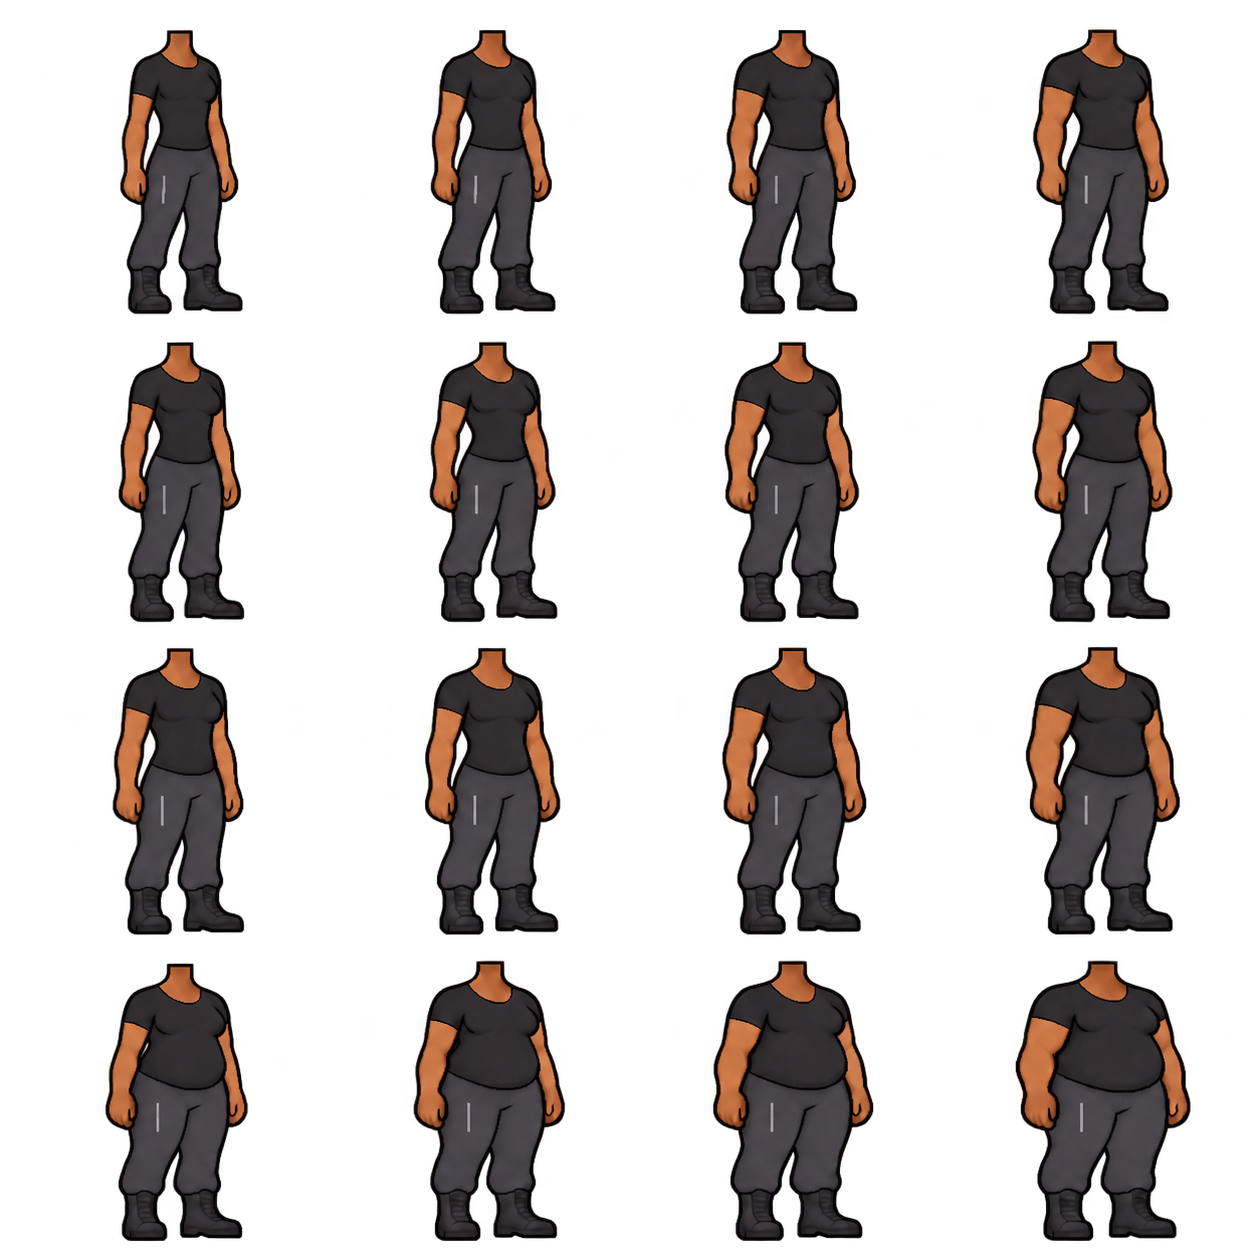
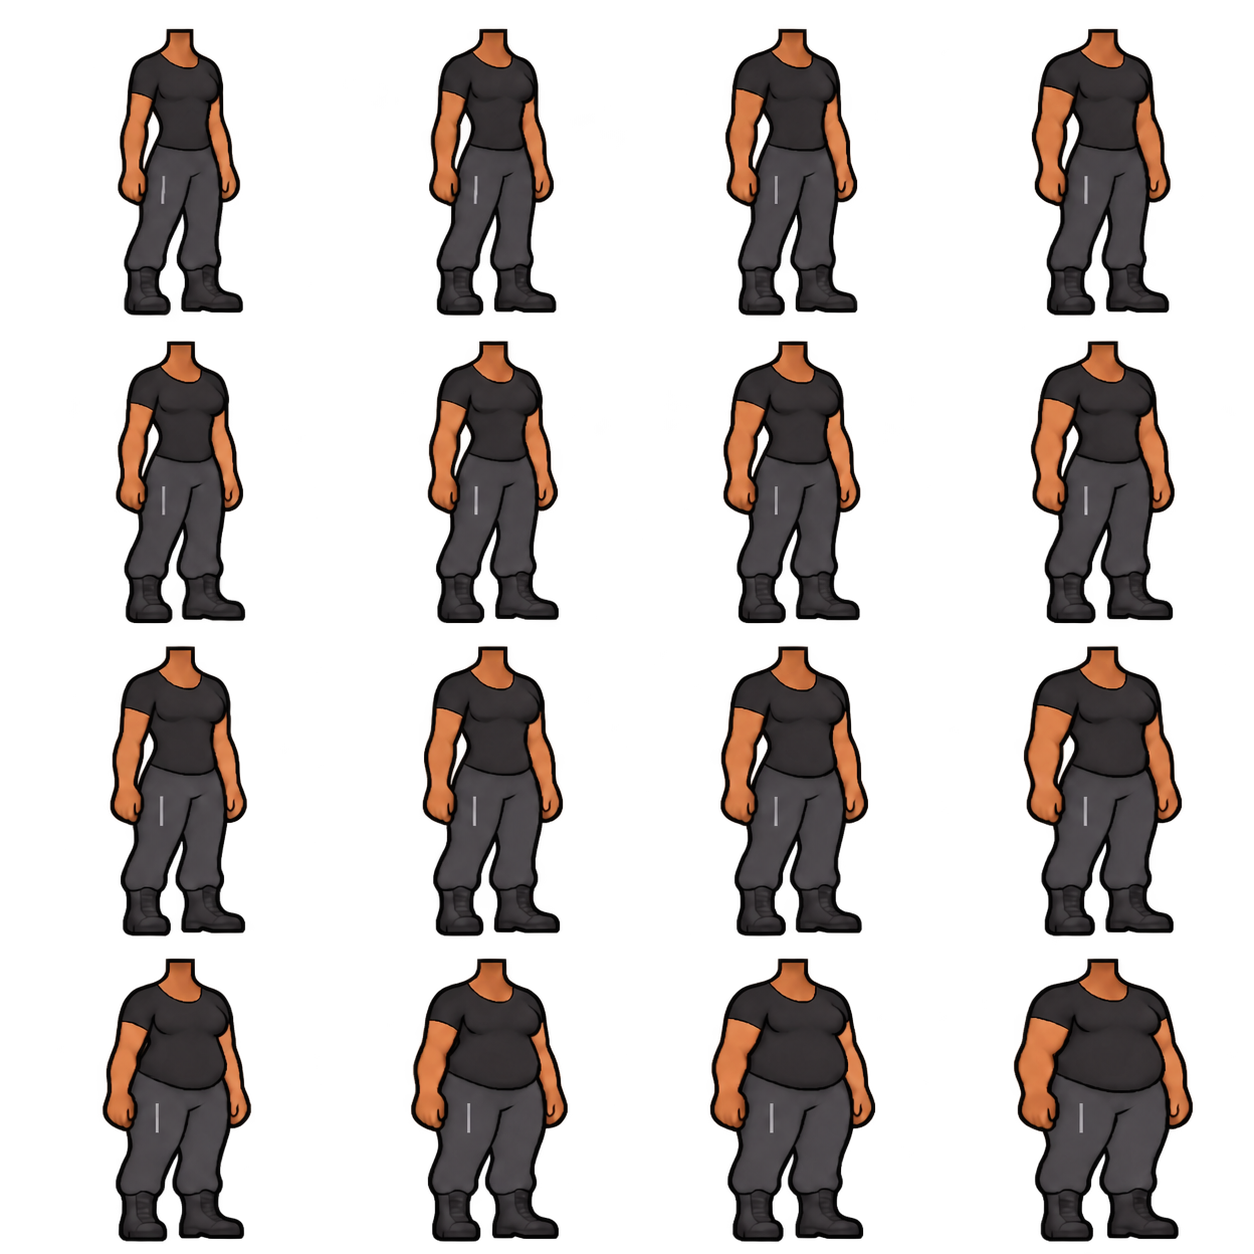
Add starting trait selection and refundable skill XP allocation

diff --git a/src/character-creation-build.js b/src/character-creation-build.js
@@ -1,0 +1,77 @@
+/* Starting traits and refundable skill allocation; no simulation effects yet. */
+setup.characterCreationBuild = (() => {
+    function mount(root, character) {
+        const rules = setup.characterRules;
+        function section(title, note) {
+            const fieldset = document.createElement('fieldset');
+            fieldset.className = 'customization-group starting-group';
+            const legend = document.createElement('legend');legend.textContent = title;
+            const description = document.createElement('p');description.className = 'creation-help';description.textContent = note;
+            fieldset.append(legend, description);root.append(fieldset);
+            return fieldset;
+        }
+        const traits = section('Starting traits', 'Choose any starting traits. Stat and skill effects are awaiting definitions.');
+        const traitGrid = document.createElement('div');traitGrid.className = 'trait-grid';
+        for (const name of rules.traits) {
+            const label = document.createElement('label');label.className = 'trait-choice';
+            const input = document.createElement('input');input.type = 'checkbox';input.checked = character.traits.includes(name);
+            input.addEventListener('change', () => {
+                character.traits = rules.traits.filter(trait => trait === name ? input.checked : character.traits.includes(trait));
+            });
+            const text = document.createElement('span');text.textContent = name;
+            label.append(input, text);traitGrid.append(label);
+        }
+        traits.append(traitGrid);
+        const skills = section('Starting skills', 'Skills start untrained at level 0. Spend 50 XP to reach level 1, then another 100 for level 2, then 200 for level 3. Costs keep doubling, up to level 10.');
+        const budget = document.createElement('div');budget.className = 'skill-budget';
+        const remaining = document.createElement('span');remaining.id = 'skill-budget';
+        const reset = document.createElement('button');reset.type = 'button';reset.textContent = 'Reset skill XP';
+        budget.append(remaining, reset);skills.append(budget);
+        const help = document.createElement('p');help.className = 'creation-help';help.textContent = 'Enter total XP per skill, or use − / + to move 10 XP. Removing XP refunds your pool.';skills.append(help);
+        const feedback = document.createElement('p');feedback.className = 'allocation-status';feedback.setAttribute('role', 'status');feedback.setAttribute('aria-live', 'polite');skills.append(feedback);
+        const rows = [];
+        for (const name of rules.skills) {
+            const row = document.createElement('div');row.className = 'skill-row';
+            const heading = document.createElement('div');heading.className = 'skill-heading';
+            const label = document.createElement('label');label.textContent = name;label.htmlFor = `skill-${name.toLowerCase()}`;
+            const level = document.createElement('span');level.className = 'skill-level';heading.append(label, level);
+            const controls = document.createElement('div');controls.className = 'skill-allocation';
+            const minus = document.createElement('button');minus.type = 'button';minus.textContent = '−';minus.setAttribute('aria-label', `Refund 10 XP from ${name}`);
+            const input = document.createElement('input');input.type = 'number';input.min = '0';input.step = '1';input.id = label.htmlFor;input.setAttribute('aria-label', `XP allocated to ${name}`);
+            const plus = document.createElement('button');plus.type = 'button';plus.textContent = '+';plus.setAttribute('aria-label', `Add 10 XP to ${name}`);
+            controls.append(minus, input, plus);
+            const progress = document.createElement('progress');progress.setAttribute('aria-label', `${name} progress to next level`);
+            const detail = document.createElement('span');detail.className = 'skill-progress-label';
+            row.append(heading, controls, progress, detail);skills.append(row);
+            function assign(xp) {
+                if (!rules.allocate(character, name, xp)) {
+                    feedback.textContent = `Enter a whole number from 0 to ${character.skills[name] + rules.remaining(character)} XP for ${name}.`;
+                } else feedback.textContent = '';
+                refresh();
+            }
+            minus.addEventListener('click', () => assign(Math.max(0, character.skills[name] - 10)));
+            plus.addEventListener('click', () => assign(character.skills[name] + Math.min(10, rules.remaining(character))));
+            input.addEventListener('change', () => assign(input.value === '' ? NaN : Number(input.value)));
+            rows.push({name, input, minus, plus, level, progress, detail});
+        }
+        function refresh() {
+            const available = rules.remaining(character);
+            remaining.textContent = `${available} / ${rules.budget} XP remaining`;
+            reset.disabled = available === rules.budget;
+            for (const row of rows) {
+                const xp = character.skills[row.name], status = rules.progress(xp);
+                row.input.value = xp;row.input.max = xp + available;
+                row.minus.disabled = xp === 0;row.plus.disabled = available === 0;
+                row.level.textContent = `Level ${status.level} / ${rules.maxLevel}`;
+                row.progress.max = status.nextCost || 1;row.progress.value = status.nextCost ? status.xp : 1;
+                row.detail.textContent = status.nextCost ? `${status.xp} / ${status.nextCost} XP toward level ${status.level + 1}` : 'Maximum level';
+            }
+        }
+        reset.addEventListener('click', () => {
+            for (const name of rules.skills) character.skills[name] = 0;
+            feedback.textContent = 'All skill XP refunded.';refresh();
+        });
+        refresh();
+    }
+    return {mount};
+})();

diff --git a/src/interface.css b/src/interface.css
@@ -76,3 +76,25 @@ body[data-tags~="creation"] #passages{max-width:960px}
 /* Anchor the editor itself so revealing female-only controls cannot shift the preview. */
 body[data-tags~="creation"] #story{align-items:start}
 .character-field[hidden]{display:none}
+/* Starting build: keep trait choices and XP controls usable on narrow screens. */
+.creation-help{color:var(--muted);font-size:.75rem;line-height:1.6;margin:0 0 16px}
+.trait-grid{display:grid;grid-template-columns:minmax(0,1fr) minmax(0,1fr);gap:8px}
+.trait-choice{display:flex;align-items:center;gap:9px;padding:8px;background:#182c2d;border:1px solid var(--line);font-size:.8rem;cursor:pointer;overflow-wrap:anywhere}
+.trait-choice:has(input:checked){border-color:#729b88;background:#25433b}
+.trait-choice input{flex:none;margin:0;accent-color:var(--accent);width:16px;height:16px}
+.skill-budget{display:flex;flex-wrap:wrap;align-items:center;justify-content:space-between;gap:10px;margin-bottom:14px}
+#skill-budget{font-size:.85rem;color:var(--accent);font-variant-numeric:tabular-nums}
+.skill-budget button{font-size:.7rem;padding:7px 10px}
+.skill-row{display:grid;grid-template-columns:minmax(0,1fr) auto;gap:6px 14px;padding:13px 0;border-bottom:1px solid var(--line)}
+.skill-heading{display:flex;flex-direction:column;justify-content:center;min-width:0}
+.skill-heading label{font-size:.85rem;color:var(--text);overflow-wrap:anywhere}
+.skill-level,.skill-progress-label{font-size:.65rem;color:var(--muted)}
+.skill-allocation{display:flex;align-items:center;gap:5px}
+.skill-allocation button{width:30px;height:34px;padding:0;font-size:1rem}
+.skill-allocation input{width:65px;min-width:0;height:34px;padding:4px;background:#16292c;color:var(--text);border:1px solid #3c5952;font-size:.85rem;text-align:center;font-variant-numeric:tabular-nums}
+.skill-row progress{grid-column:1/-1;width:100%;height:5px;accent-color:var(--accent)}
+.skill-progress-label{grid-column:1/-1}
+.allocation-status{font-size:.75rem;color:var(--accent);line-height:1.6}
+.allocation-status:empty{display:none}
+button:disabled{opacity:.4;cursor:default}
+@media(max-width:360px){.skill-row{gap:6px 8px}.skill-allocation input{width:54px}.skill-allocation button{width:27px}.trait-grid{grid-template-columns:minmax(0,1fr)}}

diff --git a/src/character-rules.js b/src/character-rules.js
@@ -1,0 +1,30 @@
+/* Creation rules stay independent of artwork and DOM. XP is cumulative. */
+setup.characterRules = (() => {
+    const traits = ['Nerd', 'Athlete', 'Delinquent', 'Promiscuous', 'Exhibitionist',
+        'Deviant', 'Beautiful', 'Lustful', 'Masochist', 'Sadist', 'Polyamorous',
+        'Nudist', 'Insane', 'Ugly', 'Innocent'];
+    const skills = ['Lockpicking', 'Stealth', 'Dancing', 'Swimming', 'Athleticism',
+        'Tending', 'Housekeeping', 'Endurance', 'Agility', 'Combat', 'Ranged',
+        'Medical', 'Crafting', 'Charm', 'Deception', 'Perception', 'Intimidation', 'Focus'];
+    const budget = 250;
+    const maxLevel = 10;
+    const levelCost = level => 50 * 2 ** (level - 1);
+    const maxXp = 50 * (2 ** maxLevel - 1);
+    function progress(xp) {
+        let level = 0, remainder = Math.max(0, Math.min(maxXp, Math.floor(xp) || 0));
+        while (level < maxLevel && remainder >= levelCost(level + 1)) {
+            remainder -= levelCost(level + 1);
+            level++;
+        }
+        return {level, xp: remainder, nextCost: level < maxLevel ? levelCost(level + 1) : null};
+    }
+    const spent = character => skills.reduce((total, name) => total + character.skills[name], 0);
+    const remaining = character => budget - spent(character);
+    function allocate(character, name, xp) {
+        if (!skills.includes(name) || !Number.isInteger(xp) || xp < 0 ||
+            xp > character.skills[name] + remaining(character)) return false;
+        character.skills[name] = xp;
+        return true;
+    }
+    return {traits, skills, budget, maxLevel, maxXp, levelCost, progress, spent, remaining, allocate};
+})();

diff --git a/src/character-data.js b/src/character-data.js
@@ -12,9 +12,10 @@ setup.character = (() => {
         skinTone: ['Pale', 'Tan', 'Olive', 'Dark']
     };
     const defaults = () => ({
-        version: 2, age: 26, gender: 'Male', genitals: 'Male', heightInches: 66,
+        version: 3, age: 26, gender: 'Male', genitals: 'Male', heightInches: 66,
         bodyFat: 'Average', muscleMass: 'Toned', eyeColor: 'Brown',
-        hairColor: 'Black', hairLength: 'Ear', skinTone: 'Tan', breastSize: 'Medium'
+        hairColor: 'Black', hairLength: 'Ear', skinTone: 'Tan', breastSize: 'Medium',
+        traits: [], skills: Object.fromEntries(setup.characterRules.skills.map(name => [name, 0]))
     });
     function normalize(value) {
         const result = defaults();
@@ -24,6 +25,17 @@ setup.character = (() => {
             }
             if (Number.isFinite(value.heightInches)) {
                 result.heightInches = Math.max(48, Math.min(84, Math.round(value.heightInches)));
+            }
+            const rules = setup.characterRules;
+            if (Array.isArray(value.traits)) {
+                result.traits = rules.traits.filter(name => value.traits.includes(name));
+            }
+            let available = rules.budget;
+            for (const name of rules.skills) {
+                const xp = value.skills?.[name];
+                if (!Number.isFinite(xp)) continue;
+                result.skills[name] = Math.min(available, Math.max(0, Math.floor(xp)));
+                available -= result.skills[name];
             }
         }
         return result;

diff --git a/src/character-ui.js b/src/character-ui.js
@@ -62,6 +62,7 @@ $(document).on(':passagedisplay', () => {
         image.addEventListener('load',()=>{if(root.isConnected){ready=images.every(image=>image.complete && image.naturalWidth>0);update();}},{once:true});
         image.addEventListener('error',()=>{status.textContent='Character artwork could not load. Your selections are retained.';},{once:true});
     }
+    setup.characterCreationBuild.mount(root, character);
     if(!ready) status.textContent='Loading appearance…';
     update();
 });

diff --git a/README.md b/README.md
@@ -13,6 +13,14 @@ Each model/size supports all 16 fat/muscle combinations: 64 body variants total.
 Height, build, skin, eyes, hair, gender, and female breast size update the preview.
 Genitals are saved independently and do not alter the clothed art. A breast-size
 selection is retained when switching to male and restored when returning to female.
+Character Creation also has 15 independent starting-trait checkboxes and 18 skills.
+Traits are saved but have no stat or skill modifiers until those effects are defined.
+Skills begin untrained at level 0 and have a shared, refundable 250 XP creation pool.
+Reaching level 1 costs 50 XP; each following level costs twice the previous cost
+(100 more for level 2, 200 more for level 3), through level 10. XP entered per skill
+is cumulative: 150 XP means level 2 with 0/200 toward level 3. Use the number fields
+or ±10 XP buttons; the last increment uses the remaining pool. Reset refunds all
+skill XP. No combinations of traits are restricted yet.
 All protagonists are adults (age 26 in this prototype). There is no world yet.
 Options provides larger text and reduced motion. Save management uses
 SugarCube's built-in browser slots and disk import/export.
@@ -59,7 +67,9 @@ the main menu; no previous world content is shown.
 
 - `src/story.twee`: Twine metadata, main menu, character creation layout.
 - `src/character-data.js`: versioned serializable character schema and validation.
-- `src/character-ui.js`: accessible inputs and live SugarCube state updates.
+- `src/character-ui.js`: accessible appearance inputs and live SugarCube state updates.
+- `src/character-rules.js`: trait/skill definitions, doubling XP thresholds and budget rules.
+- `src/character-creation-build.js`: trait checkboxes and refundable skill allocation UI.
 - `src/character-preview.js`: atlas selection, palette changes, hair alignment.
 - `src/interface.css`: responsive interface and character preview styling.
 - `assets/characters/`: replaceable placeholder artwork, embedded into the HTML.
@@ -83,7 +93,9 @@ Chest and longer hair use complete body-free templates, with head fit and length
 handled independently so both sides remain intact. Small breast size uses the
 former Medium artwork; Medium is between that size and the unchanged Large.
 Version-1 character saves receive a default Medium breast size without losing
-their other choices; the current schema version is 2.
+their other choices. Version 3 adds empty starting traits and zero XP for every
+skill to older saves. Invalid trait IDs are discarded; imported skill XP is rounded
+down, made nonnegative, and capped to the 250 XP pool in the listed skill order.
 
 Twee is the text source representation of Twine passages. Tweego 2.1.1 compiles
 it with the genuine SugarCube runtime. The installer downloads official release
@@ -127,7 +139,7 @@ npm test
 ```
 
 Alternatively set `CHROMIUM_EXECUTABLE_PATH` to an existing Chromium binary.
-Tests build and serve their own copy on loopback port 8765. Eleven checks cover all
+Tests build and serve their own copy on loopback port 8765. Fourteen checks cover all
 64 body renders with pixel-identical heads/hair and connected necks, gender and
 breast-size switching, all other visual choices, keyboard height control,
 menu/reload persistence, disk save/load, legacy save defaults, and narrow screens.
@@ -135,3 +147,7 @@ Proportion and long-hair regressions additionally check both height endpoints,
 continuous left hair silhouettes, and room around the complete hair in the canvas.
 Face-visibility checks cover Waist/Knee/Floor hair at both height limits, with
 light/dark skin and hair, verifying that eyes, nose, and mouth retain their pixels.
+
+Starting-build checks cover all trait selections, XP thresholds through level 10,
+allocation/refunds, overspending and invalid input, legacy normalization, and
+trait/skill persistence through menu, reload, and disk save/load.

diff --git a/assets/characters/README.md b/assets/characters/README.md
@@ -22,7 +22,7 @@ The customization renderer uses original AI-generated transparent atlases:
   body parts per breast size, fully clothed, without heads. Each sheet preserves
   all 16 independent fat/muscle combinations in the same ordering as above.
   Small is the exact previously published Medium artwork. Medium is a new
-  intermediate chest size; Large retains its original artwork.
+  intermediate chest size with a small additional increase for this revision; Large retains its original artwork.
 - `hair-atlas.png`: 4 columns × 2 rows. First seven cells are Shaved/Ear/Neck/
   Chest/Waist/Knee/Floor; only the first three are used by the current renderer.
   Magenta is a mask color, not the
